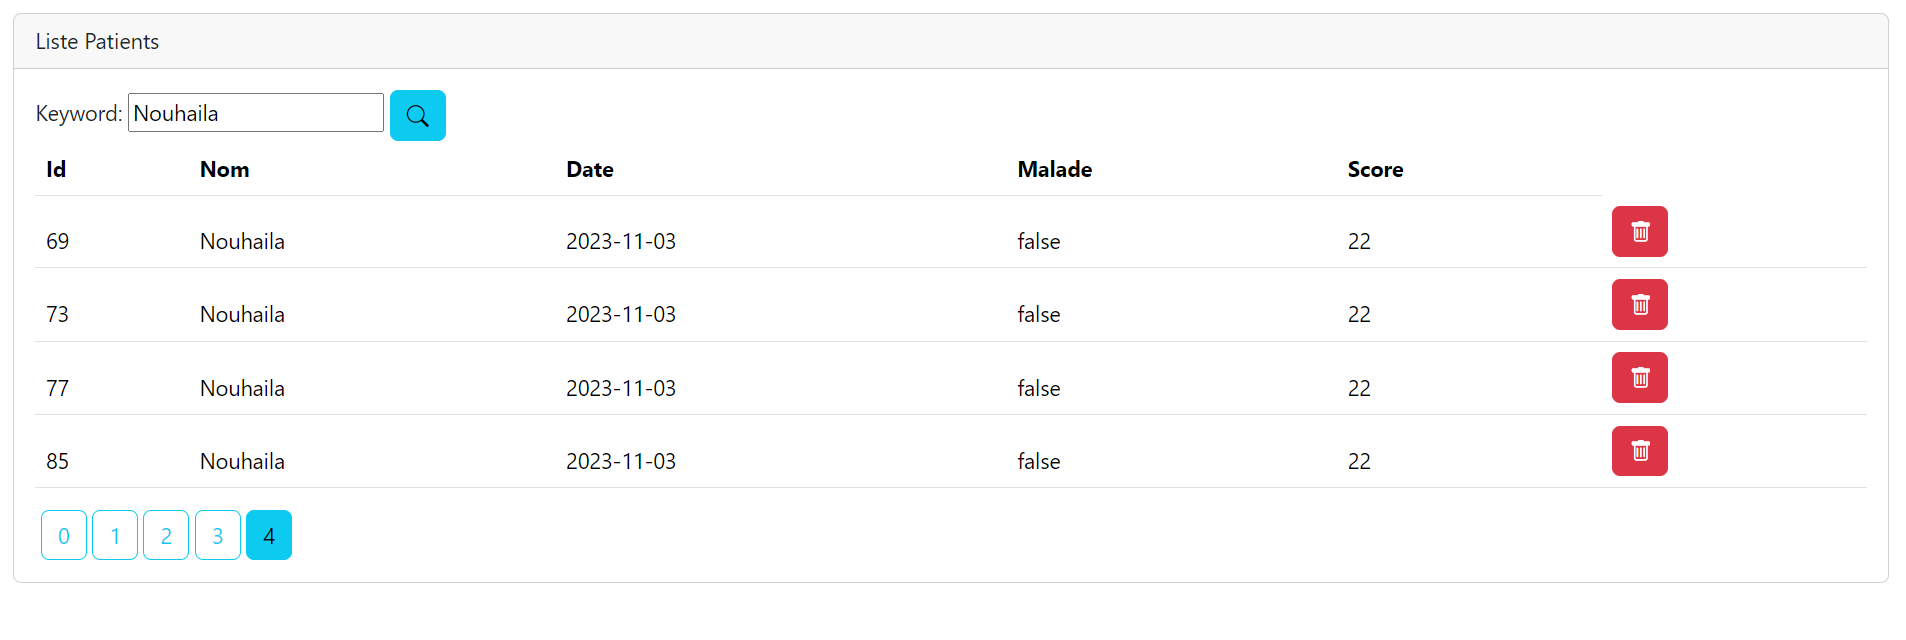
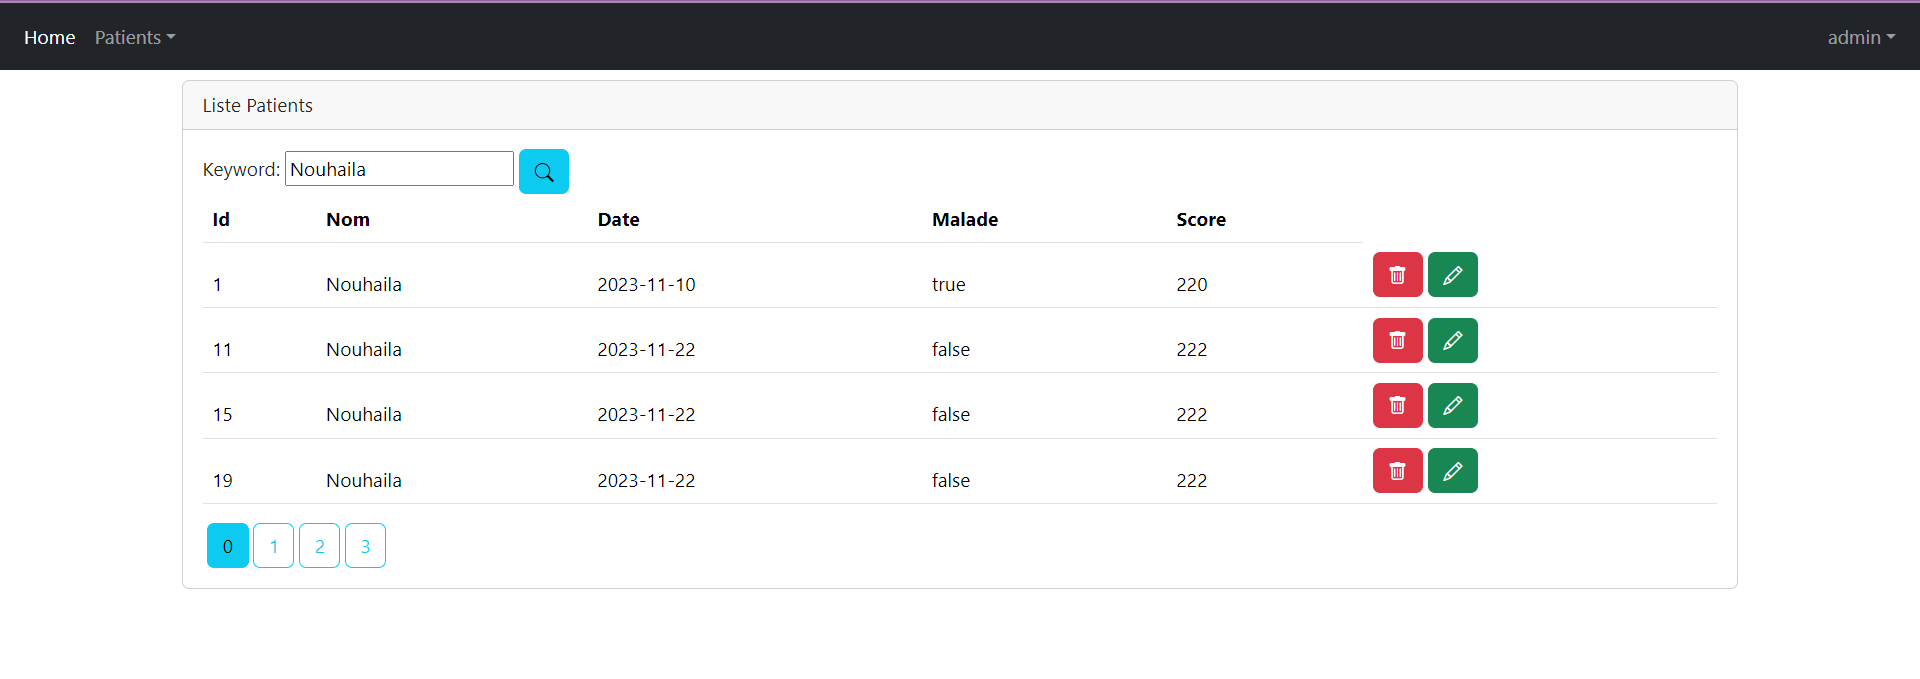
commit

diff --git a/src/main/resources/templates/formPatients.html b/src/main/resources/templates/formPatients.html
@@ -12,29 +12,37 @@
 </head>
 <body>
   <div layout:fragment="content1">
-          <form method="post" th:action="@{save}">
-              <div class="m-3">
-                  <label for="nom">Nom</label>
-                  <input id="nom" class="form-control" type="text" name="nom" th:value="${patient.nom}">
-                  <span class="text-danger" th:errors="${patient.nom}"></span>
+      <div class="container mt-2">
+          <div class="card">
+              <div class="card-header">Ajouter un patient</div>
+              <div class="card-body">
+                  <form method="post" th:action="@{save}">
+                      <div class="m-3">
+                          <label for="nom">Nom</label>
+                          <input id="nom" class="form-control" type="text" name="nom" th:value="${patient.nom}">
+                          <span class="text-danger" th:errors="${patient.nom}"></span>
+                      </div>
+                      <div class="m-3">
+                          <label for="dateNaissance">Date de naissance</label>
+                          <input id="dateNaissance" class="form-control" type="date" name="dateNaissance" th:value="${patient.dateNaissance}">
+                          <span class="text-danger" th:errors="${patient.dateNaissance}"></span>
+                      </div>
+                      <div class="m-3">
+                          <label for="malade">Malade</label>
+                          <input id="malade" type="checkbox" name="malade" th:checked="${patient.malade}">
+                          <span class="text-danger" th:errors="${patient.malade}"></span>
+                      </div>
+                      <div class="m-3">
+                          <label for="score">Score</label>
+                          <input id="score" class="form-control" type="text"  name="score" th:value="${patient.score}">
+                          <span class="text-danger" th:errors="${patient.score}"></span>
+                      </div>
+                      <button type="submit" class="btn btn-primary m-3">Save</button>
+                  </form>
               </div>
-              <div class="m-3">
-                  <label for="dateNaissance">Date de naissance</label>
-                  <input id="dateNaissance" class="form-control" type="date" name="dateNaissance" th:value="${patient.dateNaissance}">
-                  <span class="text-danger" th:errors="${patient.dateNaissance}"></span>
-              </div>
-              <div class="m-3">
-                  <label for="malade">Malade</label>
-                  <input id="malade" type="checkbox" name="malade" th:checked="${patient.malade}">
-                  <span class="text-danger" th:errors="${patient.malade}"></span>
-              </div>
-              <div class="m-3">
-                  <label for="score">Score</label>
-                  <input id="score" class="form-control" type="text"  name="score" th:value="${patient.score}">
-                  <span class="text-danger" th:errors="${patient.score}"></span>
-              </div>
-              <button type="submit" class="btn btn-primary m-3">Save</button>
-          </form>
+          </div>
+      </div>
+
 
 
   </div>

diff --git a/src/main/resources/templates/editPatient.html b/src/main/resources/templates/editPatient.html
@@ -12,36 +12,41 @@
 </head>
 <body>
 <div layout:fragment="content1">
-
-    <form method="post" th:action="@{save(page=${page},keyword=${keyword})}">
-      <div class="m-3">
-        <label>ID : </label>
-        <label th:text="${patient.id}"></label>
-        <input class="form-control" type="hidden" name="id" th:value="${patient.id}">
+  <div class="container mt-2">
+    <div class="card">
+      <div class="card-header">Modifier un patient</div>
+      <div class="card-body">
+        <form method="post" th:action="@{save(page=${page},keyword=${keyword})}">
+          <div class="m-3">
+            <label>ID : </label>
+            <label th:text="${patient.id}"></label>
+            <input class="form-control" type="hidden" name="id" th:value="${patient.id}">
+          </div>
+          <div class="m-3">
+            <label for="nom">Nom</label>
+            <input id="nom" class="form-control" type="text" name="nom" th:value="${patient.nom}">
+            <span class="text-danger" th:errors="${patient.nom}"></span>
+          </div>
+          <div class="m-3">
+            <label for="dateNaissance">Date de naissance</label>
+            <input id="dateNaissance" class="form-control" type="date" name="dateNaissance" th:value="${patient.dateNaissance}">
+            <span class="text-danger" th:errors="${patient.dateNaissance}"></span>
+          </div>
+          <div class="m-3">
+            <label for="malade">Malade</label>
+            <input id="malade" type="checkbox" name="malade" th:checked="${patient.malade}">
+            <span class="text-danger" th:errors="${patient.malade}"></span>
+          </div>
+          <div class="m-3">
+            <label for="score">Score</label>
+            <input id="score" class="form-control" type="text"  name="score" th:value="${patient.score}">
+            <span class="text-danger" th:errors="${patient.score}"></span>
+          </div>
+          <button type="submit" class="btn btn-primary m-3">Save</button>
+        </form>
       </div>
-      <div class="m-3">
-        <label for="nom">Nom</label>
-        <input id="nom" class="form-control" type="text" name="nom" th:value="${patient.nom}">
-        <span class="text-danger" th:errors="${patient.nom}"></span>
-      </div>
-      <div class="m-3">
-        <label for="dateNaissance">Date de naissance</label>
-        <input id="dateNaissance" class="form-control" type="date" name="dateNaissance" th:value="${patient.dateNaissance}">
-        <span class="text-danger" th:errors="${patient.dateNaissance}"></span>
-      </div>
-      <div class="m-3">
-        <label for="malade">Malade</label>
-        <input id="malade" type="checkbox" name="malade" th:checked="${patient.malade}">
-        <span class="text-danger" th:errors="${patient.malade}"></span>
-      </div>
-      <div class="m-3">
-        <label for="score">Score</label>
-        <input id="score" class="form-control" type="text"  name="score" th:value="${patient.score}">
-        <span class="text-danger" th:errors="${patient.score}"></span>
-      </div>
-      <button type="submit" class="btn btn-primary m-3">Save</button>
-    </form>
-
+    </div>
+  </div>
 </div>
 
 </body>

diff --git a/src/main/java/com/mvc/patientspringmvc/security/SecurityConfig.java b/src/main/java/com/mvc/patientspringmvc/security/SecurityConfig.java
@@ -1,5 +1,4 @@
 package com.mvc.patientspringmvc.security;
-
 import com.mvc.patientspringmvc.security.service.UserDetailServiceImpl;
 import lombok.AllArgsConstructor;
 import org.springframework.beans.factory.annotation.Autowired;
@@ -15,27 +14,18 @@ import org.springframework.security.provisioning.JdbcUserDetailsManager;
 import org.springframework.security.web.SecurityFilterChain;
 
 import javax.sql.DataSource;
-
-@Configuration
-@EnableWebSecurity
-@EnableMethodSecurity(prePostEnabled = true)
-@AllArgsConstructor
+@Configuration @EnableWebSecurity @EnableMethodSecurity(prePostEnabled = true) @AllArgsConstructor
 public class SecurityConfig {
     private PasswordEncoder passwordEncoder;
     private UserDetailServiceImpl userDetailServiceImpl;
     //@Bean
     public JdbcUserDetailsManager jdbcUserDetailsManager(DataSource dataSource){
-        return new JdbcUserDetailsManager(dataSource);
-    }
+        return new JdbcUserDetailsManager(dataSource);}
     //@Bean
-    public InMemoryUserDetailsManager inMemoryUserDetailsManager(){
-        return new InMemoryUserDetailsManager(
+    public InMemoryUserDetailsManager inMemoryUserDetailsManager(){return new InMemoryUserDetailsManager(
                 User.withUsername("user1").password(passwordEncoder.encode("1234")).roles("USER").build(),
                 User.withUsername("user2").password(passwordEncoder.encode("1234")).roles("USER").build(),
-                User.withUsername("admin").password(passwordEncoder.encode("1234")).roles("USER","ADMIN").build()
-        );
-
-    }
+                User.withUsername("admin").password(passwordEncoder.encode("1234")).roles("USER","ADMIN").build());}
     @Bean
     public SecurityFilterChain securityFilterChain(HttpSecurity httpSecurity) throws Exception{
         httpSecurity.formLogin().loginPage("/login").defaultSuccessUrl("/").permitAll();
@@ -46,6 +36,5 @@ public class SecurityConfig {
         httpSecurity.authorizeHttpRequests().anyRequest().authenticated();
         httpSecurity.exceptionHandling().accessDeniedPage("/notAuthorized");
         httpSecurity.userDetailsService(userDetailServiceImpl);
-        return httpSecurity.build();
-    }
+        return httpSecurity.build();}
 }

diff --git a/src/main/java/com/mvc/patientspringmvc/web/PatientController.java b/src/main/java/com/mvc/patientspringmvc/web/PatientController.java
@@ -27,7 +27,7 @@ public class PatientController {
     @GetMapping(path = "/user/index")
     public String index(Model model,
                         @RequestParam(name = "page",defaultValue = "0") int page,
-                        @RequestParam(name = "size",defaultValue = "5") int size,
+                        @RequestParam(name = "size",defaultValue = "4") int size,
                         @RequestParam(name = "keyword",defaultValue = "") String keyword)
     {
         Page<Patient> pagePatient = patientRepository.findByNomContains(keyword, PageRequest.of(page,size));

diff --git a/src/main/java/com/mvc/patientspringmvc/PatientSpringMvcApplication.java b/src/main/java/com/mvc/patientspringmvc/PatientSpringMvcApplication.java
@@ -23,7 +23,7 @@ public class PatientSpringMvcApplication {
 
         SpringApplication.run(PatientSpringMvcApplication.class, args);
     }
-    @Bean
+    //@Bean
     CommandLineRunner start(PatientRepository patientRepository) {
         return args -> {
             patientRepository.save(new Patient(null, "Nouhaila", new Date(), false, 222));

diff --git a/README.md b/README.md
@@ -1,8 +1,198 @@
-
-
-<img src="captures/home.png">
-<img src="captures/SEARCH.png">
-<img src="captures/DELETE.png">
-<img src="captures/mysql.png">
+<p>Realisée par : DANOUNI NOUHAILA</p>
+<p>________________________________________________________________________________________________________________
+<h1>Rapport de TP N° 3_4 : Projet Spring Boot avec Spring Security</h1>
+<h2>Development Web JEE Spring MVC</h2>
+<h2>Introduction</h2>
+<p>
+Ce rapport détaille le développement d'une application web sécurisée avec Spring Boot et Spring Security, axée sur la gestion des patients. Le processus englobe la création d'un projet avec les dépendances requises, l'implémentation des entités JPA pour les patients, la configuration de la persistance des données, la mise en place d'un contrôleur Spring MVC et la création de vues Thymeleaf. La flexibilité de connexion à H2 ou MySQL est une caractéristique clé du projet. La sécurité est renforcée par l'intégration de Spring Security avec trois stratégies d'authentification : InMemoryAuthentication, JdbcAuthentication, et UserDetailsService. L'objectif final est de fournir une application web opérationnelle, adaptable et sécurisée, en exploitant de manière judicieuse les fonctionnalités offertes par Spring Boot et Spring Security.
+</p>
+<h2>Ennoncé</h2>
+<p>Créer une application Web JEE basée sur Spring MVC, Thylemeaf et Spring Data JPA qui permet de gérer les patients. L'application doit permettre les fonctionnalités suivantes :
+</p>
+<ul>
+<li>Stocker les patiens dans H2 DataBase puis dans MySQL</li>
+<li>Afficher les patients</li>
+<li>Faire la pagination</li>
+<li>Chercher les patients</li>
+<li>Ajouter un patient</li>
+<li>Modifier un patient</li>
+<li>Supprimer un patient</li>
+<li>Sécuriser les données des utilisateurs</li>
+<li>Gérer les droits d'accès</li>
+</ul>
+<h2>Objectifs</h2>
+<ol>
+<li>Créer un projet spring boot avec les dépendances Web, Spring Data JPA, H2,
+Lombok, Thymeleaf</li>
+<ul>
+<li>Créer l'entité JPA Patient</li>
+<li>Créer l'interface PatientRepository basée sur Spring Data</li>
+<li>Configurer l'application pour se connecter soit à h2 Database ou à MySQL (application properties)</li>
+<li>Créer le contrôleur Spring MVC</li>
+<li>Créer les vues basées sur Thymeleaf</li>
+</ul>
+<li>Sécuriser cette application en intégrant un système d'authentification basé sur Spring security avec les trois stratégies: 
+<ul>
+<li>InMemoryAuthentication</li>
+<li>JdbcAuthentication</li>
+<li>UserDetailsService</li>
+</ul>
+</ol>
+<h2>Conception</h2>
+<img src="captures/conception.png" alt="conception image">
+<h2>Réalisation</h2>
+<ol>
+<h3><li>Création du projet spring boot avec les dépendances Web, Spring Data JPA, H2,
+Lombok, Thymeleaf qui sert à:</li></h3>
+<ul>
+<h4><li>Affichage des données des patients dans H2 DataBase et dans MySQL</li></h4>
 <img src="captures/h2.png">
+<img src="captures/mysql.png">
+<h4><li>Affichage des patients avec la pagination</li></h4>
+<img src="captures/affichage.png">
+<h4><li>Chercher les patients</li></h4>
+<img src="captures/SEARCH.png">
+<h4><li>Ajouter un patient</li></h4>
+<img src="captures/add1.png">
+<img src="captures/validation.png">
+<img src="captures/add2.png">
+<img src="captures/add3.png">
+<h4><li>Modifier un patient</li></h4>
+<img src="captures/edit1.png">
+<img src="captures/edit2.png">
+<img src="captures/edit3.png">
+<h4><li>Supprimer un patient</li></h4>
+<img src="captures/supp1.png">
+<p>J'ai supprimé dans ce cas le patient avec l'ID=38</p>
+<img src="captures/supp2.png">
+</ul>
+<h3>
+<li>Sécuriser cette application en intégrant un système d'authentification basé sur Spring security avec les trois stratégies: 
+</li>
+</h3>
+<ul>
+<h4><li>Création de la classe SecurityConfig</li></h4>
+<img src="captures/secuConfig.png">
+<h5>Annotations utilisées :</h5>
+<ul>
+<li>
+@Configuration : Indique que la classe est une configuration Spring, permettant la définition de beans et de configurations.
+</li>
+<li>
+@EnableWebSecurity : Active la configuration de sécurité web de Spring Security.
+</li>
+<li>
+@EnableMethodSecurity(prePostEnabled = true) : Active la sécurité basée sur les annotations pour les méthodes. prePostEnabled = true permet l'utilisation des annotations @PreAuthorize et @PostAuthorize pour définir des règles de sécurité au niveau des méthodes.
+</li>
+<li>
+@AllArgsConstructor : Lombok génère automatiquement un constructeur qui prend tous les champs de la classe comme paramètres. Cela est utile pour l'injection de dépendances.
+</li>
+</ul>
+<h5>Attributs utilisés :</h5>
+<ul>
+<li>
+private PasswordEncoder passwordEncoder; : Un bean qui encode les mots de passe. Utilisé pour sécuriser les mots de passe stockés dans la base de données.
+</li>
+<li>
+private UserDetailServiceImpl userDetailServiceImpl; : Un service personnalisé qui implémente l'interface UserDetailsService. Ce service est utilisé pour récupérer les détails de l'utilisateur, notamment lors de l'authentification.
+</li>
+</ul>
+<p>
+La classe SecurityConfig agit comme une configuration centralisée pour la sécurité de l'application Spring. Elle définit les stratégies d'authentification, les gestionnaires de détails d'utilisateurs, et configure la sécurité des requêtes HTTP. La classe utilise une combinaison de configurations en mémoire (InMemoryUserDetailsManager) et basées sur une base de données (JdbcUserDetailsManager). Elle spécifie également des règles d'autorisation pour certaines URL, la gestion des sessions, la redirection en cas d'erreurs d'accès, et elle configure le service UserDetailServiceImpl comme gestionnaire des détails d'utilisateur personnalisé. En résumé, elle orchestre l'ensemble des mécanismes de sécurité de l'application web.
+</p>
+<h4><li>InMemoryAuthentication dans SecurityConfig</li></h4>
+<ul>
+<li>
+Définition : Cette stratégie d'authentification stocke les informations d'identification des utilisateurs en mémoire, généralement dans la configuration du code.
+</li>
+<li>
+Dans le Code :</li>
+<img src="captures/InMemory.png">
+<li>
+Différence : Les détails des utilisateurs sont définis directement dans le code, et ils restent en mémoire pendant la durée de vie de l'application. Cette approche est souvent utilisée pour des utilisateurs statiques et dans des environnements de développement.
+</li>
 
+</ul>
+
+<h4><li>JdbcAuthentication dans SecurityConfig</li></h4>
+<ul>
+<li>
+Définition : Cette stratégie d'authentification utilise une base de données relationnelle (comme MySQL, PostgreSQL, etc.) pour stocker et récupérer les informations d'identification des utilisateurs.
+</li>
+<li>
+Dans le Code :</li>
+<img src="captures/jdbc.png">
+<li>
+Différence : Les détails des utilisateurs sont stockés dans une base de données externe. Cela offre une solution plus évolutive pour la gestion des utilisateurs, particulièrement dans des environnements de production.
+</li>
+<li>
+Dans la base de données:</li>
+<img src="captures/jdbc_db.png">
+</ul>
+<h4><li>UserDetailsService dans SecurityConfig</li></h4>
+<ul>
+<li>
+Définition : Cette interface permet de récupérer les détails de l'utilisateur à partir de n'importe quelle source de données personnalisée, par exemple, une base de données NoSQL, un service web, etc.
+</li>
+<li>
+Dans le Code :</li>
+<img src="captures/userDetail.png">
+<li>
+Différence : Plutôt que de déclarer une stratégie d'authentification spécifique, cette approche permet de connecter un service personnalisé (UserDetailServiceImpl dans ce cas) qui implémente l'interface UserDetailsService. Cela offre une grande flexibilité pour récupérer les détails des utilisateurs à partir de diverses sources.
+</li>
+<li>
+Dans la base de données:</li>
+<img src="captures/userDetail_db.png">
+</ul>
+<h4><li>Sécuriser les données des utilisateurs</li></h4>
+<p>
+ La sécurité des données des utilisateurs est une priorité fondamentale de l'application. En utilisant passwordEncoder.encode(), les mots de passe des utilisateurs sont cryptés avant d'être stockés dans la base de données. Cette étape est cruciale pour assurer la confidentialité des informations sensibles et empêcher les accès non autorisés.
+</p>
+<ul>
+<li>
+Affichage des données dans MySQL avec JdbcAuthentication : </li>
+<img src="captures/autorities.png">
+<img src="captures/users.png">
+<li>
+Affichage des données dans MySQL avec UserDetailsService : </li>
+<img src="captures/app_role.png">
+<img src="captures/app_user.png">
+<img src="captures/app_user_role.png">
+</ul>
+<h4><li>Gérer les droits d'accès</li></h4>
+<p>
+Cette section essentielle de notre application se concentre sur la gestion minutieuse des droits d'accès, jouant un rôle fondamental dans la sécurité globale. Grâce à l'usage avisé de Spring Security, notre configuration permet une gestion précise des autorisations, notamment en définissant des règles spécifiques pour l'accès à des ressources telles que les Webjars et la console H2. La classe SecurityConfig offre une souplesse notable en permettant la définition de règles basées sur les rôles des utilisateurs, facilitée par les méthodes hasRole("USER") et hasRole("ADMIN").
+</p>
+<ul>
+<li>
+Personnalisation du Processus de Connexion avec: "httpSecurity.formLogin().loginPage("/login").defaultSuccessUrl("/").permitAll();" </li>
+
+<strong>httpSecurity.formLogin() :</strong> Active la gestion du processus de connexion fourni par Spring Security.
+<strong> .loginPage("/login") : </strong>  Spécifie la page de connexion personnalisée. Plutôt que d'utiliser la page de connexion par défaut fournie par Spring Security, l'application redirigera les utilisateurs vers la page spécifiée ("/login") lorsqu'une authentification est requise.
+<strong> .defaultSuccessUrl("/") :</strong>  Définit l'URL par défaut vers laquelle un utilisateur est redirigé après une connexion réussie. Dans ce cas, l'utilisateur est redirigé vers la page principale ("/").
+<strong> .permitAll() : </strong> Autorise l'accès à la page de connexion spécifiée par n'importe quel utilisateur, même s'il n'est pas authentifié. Cela garantit que la page de connexion est accessible à tous, même à ceux qui ne sont pas encore connectés.
+<h6>Login Page generée par defaut:</h6>
+<img src="captures/signin_spring.png">
+<h6>Login Page personnalisé:</h6>
+<img src="captures/signin_perso.png">
+<li>
+Gestion Conditionnelle de l'Affichage Selon le Rôle de l'Utilisateur : </li>
+<p>
+Dans la classe PatientController, l'affichage des patients est géré de manière conditionnelle en fonction du rôle de l'utilisateur. Les méthodes telles que delete, editPatient, formPatient, et save sont annotées avec @PreAuthorize("hasRole('ROLE_ADMIN')"), ce qui signifie que seuls les utilisateurs ayant le rôle d'administrateur peuvent accéder à ces fonctionnalités. Par conséquent, l'affichage et l'accès à certaines fonctionnalités de gestion des patients sont restreints aux utilisateurs ayant le rôle spécifique d'administrateur. Cela garantit une expérience utilisateur sécurisée et adaptée en fonction du rôle attribué à chaque utilisateur dans le système.
+</p>
+<h6>Interface de l'admin:</h6>
+<img src="captures/admin_inter.png">
+<h6>Interface de user:</h6>
+<img src="captures/user_inter.png">
+<p>
+Et si un utilisateur tente d'accéder à une ressource pour laquelle il n'a pas les autorisations nécessaires, il sera redirigé vers la page définie, ici /notAuthorized, comme dans ce cas là:
+</p>
+<img src="captures/notAuto.png">
+</ul>
+</ul>
+</ol>
+<h2>Conclusion</h2>
+<p>
+
+Cette application Spring Boot avec Spring Security offre une gestion robuste des patients tout en mettant l'accent sur la sécurité. En intégrant des fonctionnalités flexibles, telles que la pagination et la recherche, et en personnalisant l'authentification avec InMemoryAuthentication, JdbcAuthentication et UserDetailsService, l'application allie efficacité, adaptabilité et sécurité.
+</p>
